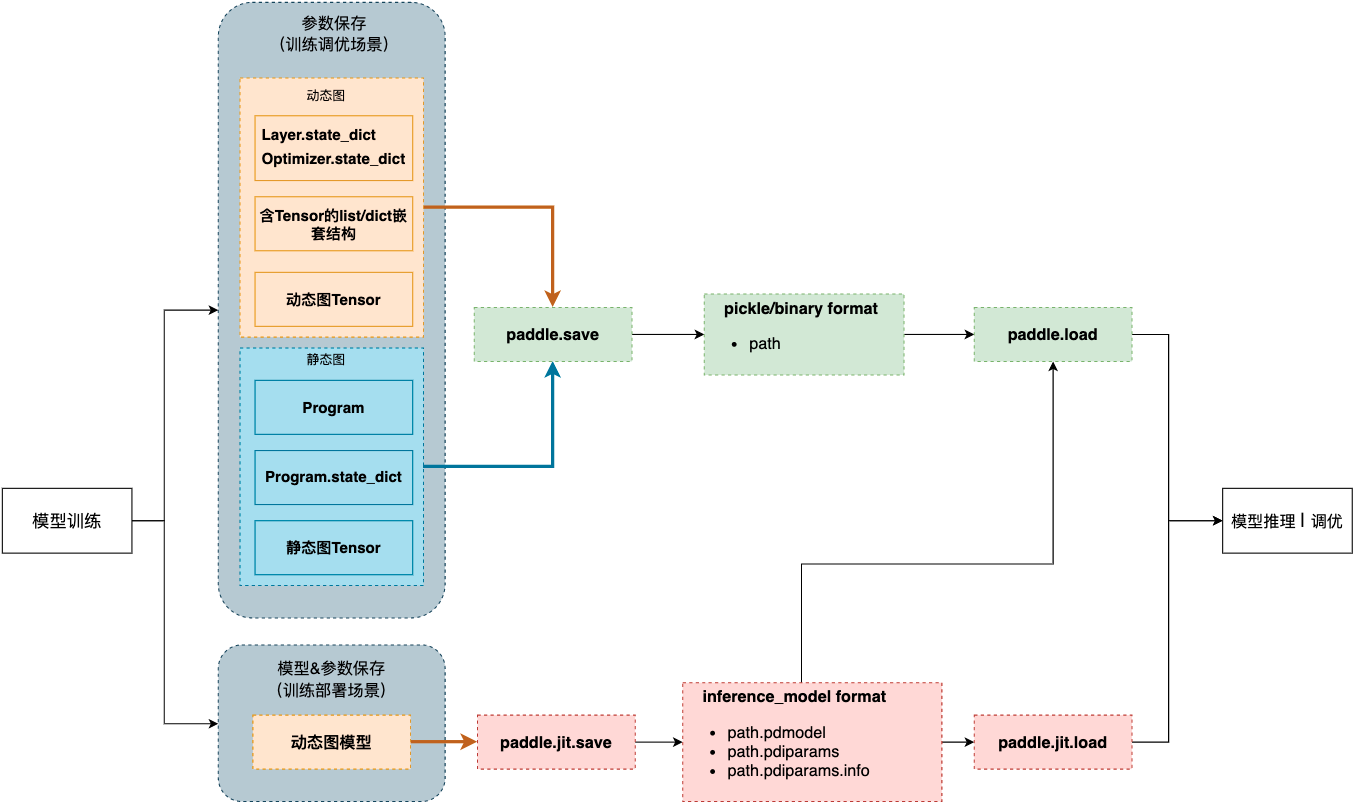
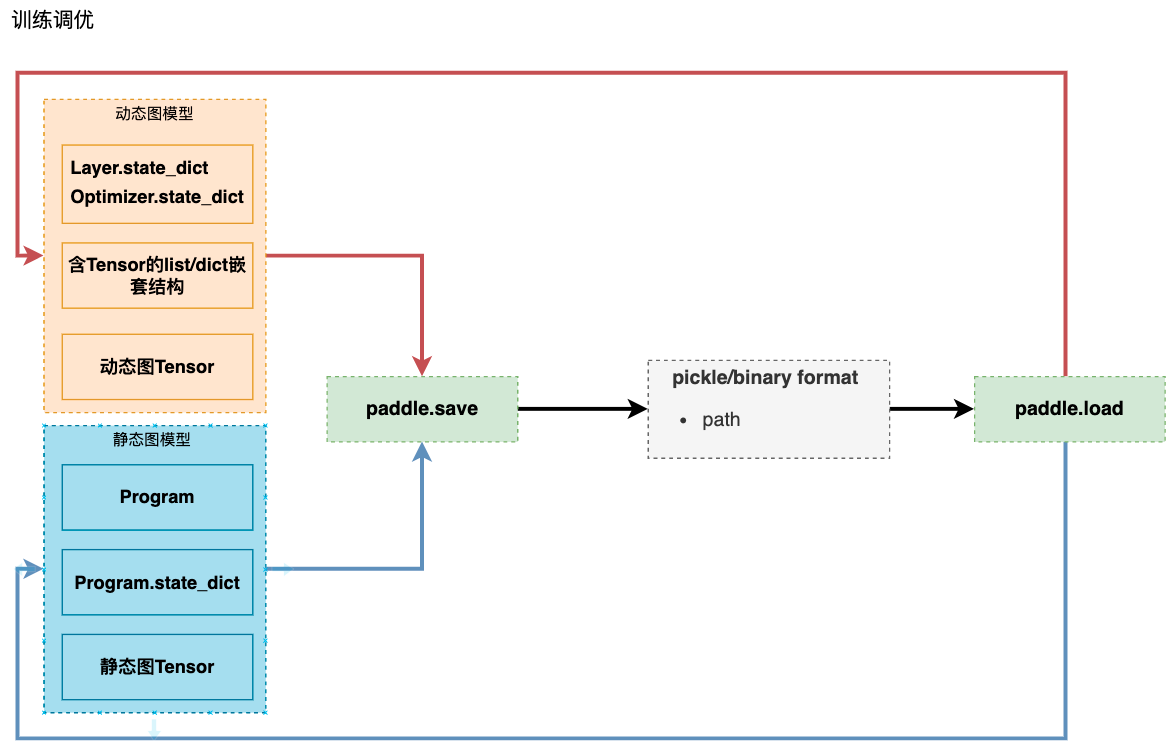
polish doc

diff --git a/docs/guides/02_paddle2.0_develop/08_model_save_load_cn.rst b/docs/guides/02_paddle2.0_develop/08_model_save_load_cn.rst
@@ -10,7 +10,8 @@
 1.1 基础API保存载入体系
 --------------------
 
-飞桨框架2.1模型与参数的保存与载入相关接口包括：
+飞桨框架2.1对模型与参数的保存与载入相关接口进行了梳理：对于训练调优场景，我们推荐使用paddle.save/load保存和载入模型；对于推理部署场景，我们推荐使用paddle.jit.save/load（动态图）和paddle.static.save/load_inference_model（静态图）保存载入模型。
+更飞桨保存与载入相关接口包括：
 
 
 :ref:`paddle.save <cn_api_paddle_framework_io_save>`
@@ -21,20 +22,15 @@
 
 :ref:`paddle.jit.load <cn_api_paddle_jit_save>`
 
+:ref:`paddle.static.save_inference_model <cn_api_static_save_inference_model>`
+
+:ref:`paddle.static.load_inference_model <cn_api_fluid_io_load_inference_model>`
+
 
 各接口关系如下图所示：
 
 .. image:: images/paddle_save_load_2.1.png
-
-
-
-飞桨框架2.1对模型与参数的保存与载入相关接口进行了梳理：对于训练调优场景，我们推荐使用paddle.save/load保存和载入模型；对于推理部署（动态图转化为静态图）场景，我们推荐使用jit.save/load保存载入模型。
-
-paddle.save/load支持动态图相关对象（state_dict、Tensor、包含Tensor的tuple/dict嵌套结构）和静态图相关对象（Program、state_dict、Tensor）的保存和载入；paddle.jit.save/load支持Layer和无参函数的保存和加载。更多介绍请参考相应API文档。
-
-.. note::
-    不推荐使用paddle.save保存Layer对象，原因如下：1. 加载Layer对象无法脱离模型代码。 2. Layer对象相交于state_dict包含大量冗余信息。
-
+.. image:: images/paddle_jit_save_load_2.1.png
 
 1.2 高阶API保存载入体系
 --------------------
@@ -57,8 +53,8 @@ paddle.save/load支持动态图相关对象（state_dict、Tensor、包含Tensor
         ../../faq/save_cn.md
     
 
-二、参数保存载入（训练调优）
-#######################
+二、训练调优场景的模型&参数保存载入
+##############################
 
 2.1 动态图参数保存载入
 -------------------
@@ -157,8 +153,8 @@ paddle.save/load支持动态图相关对象（state_dict、Tensor、包含Tensor
     adam.set_state_dict(opt_state_dict)
 
 
-2.2 静态图模型保存载入
--------------------
+2.2 静态图模型&参数保存载入
+-----------------------
 若仅需要保存/载入模型的参数，可以使用 ``paddle.save/load`` 结合Program的state_dict达成目的，此处state_dict与动态图state_dict概念类似，dict的key为参数名，value为参数真实的值。若想保存整个模型，需要使用``paddle.save``将Program和state_dict都保存下来。
 
 结合以下简单示例，介绍参数保存和载入的方法：
@@ -180,7 +176,7 @@ paddle.save/load支持动态图相关对象（state_dict、Tensor、包含Tensor
     prog = paddle.static.default_main_program()
 
 
-2.2.1 静态图模型参数保存
+2.2.1 静态图模型&参数保存
 ---------------------
 
 参数保存时，先获取Program的state_dict，然后将state_dict保存至磁盘，示例如下（接前述示例）:
@@ -196,7 +192,7 @@ paddle.save/load支持动态图相关对象（state_dict、Tensor、包含Tensor
     paddle.save(prog, "temp/model.pdmodel")
 
 
-2.2.2 静态图模型参数载入
+2.2.2 静态图模型&参数载入
 ---------------------
 
 如果只保存了state_dict，可以跳过此段代码，直接载入state_dict。如果模型文件中包含Program和state_dict，请先载入Program，示例如下（接前述示例）:
@@ -215,20 +211,22 @@ paddle.save/load支持动态图相关对象（state_dict、Tensor、包含Tensor
 
 
 
-三、模型&参数保存载入（训练部署）
-############################
+三、训练部署场景的模型&参数保存载入
+##################################
 
-若要同时保存/载入模型结构和参数，可以使用 ``paddle.jit.save/load`` 实现。
+3.1 动态图模型&参数保存载入（训练推理）
+---------------------------
+若要同时保存/载入动态图模型结构和参数，可以使用 ``paddle.jit.save/load`` 实现。
 
-3.1 模型&参数保存
-----------------
+3.1.1 动态图模型&参数保存
+----------------------
 
 模型&参数存储根据训练模式不同，有两种使用情况：
 
 (1) 动转静训练 + 模型&参数保存
 (2) 动态图训练 + 模型&参数保存
 
-3.1.1 动转静训练 + 模型&参数保存
+3.1.1.1 动转静训练 + 模型&参数保存
 ``````````````````````````````
 
 动转静训练相比直接使用动态图训练具有更好的执行性能，训练完成后，直接将目标Layer传入 ``paddle.jit.save`` 保存即可。：
@@ -467,7 +465,7 @@ Layer更准确的语义是描述一个具有预测功能的模型对象，接收
     load_result = load_func(inps)
 
 
-3.1.2 动态图训练 + 模型&参数保存
+3.1.1.2 动态图训练 + 模型&参数保存
 ``````````````````````````````
 
 动态图模式相比动转静模式更加便于调试，如果你仍需要使用动态图直接训练，也可以在动态图训练完成后调用 ``paddle.jit.save`` 直接保存模型和参数。
@@ -579,8 +577,8 @@ Layer更准确的语义是描述一个具有预测功能的模型对象，接收
         path=path,
         input_spec=[image])
 
-3.2 模型&参数载入
-----------------
+3.1.2 动态图模型&参数载入
+----------------------
 
 载入模型参数，使用 ``paddle.jit.load`` 载入即可，载入后得到的是一个Layer的派生类对象 ``TranslatedLayer`` ， ``TranslatedLayer`` 具有Layer具有的通用特征，支持切换 ``train`` 或者 ``eval`` 模式，可以进行模型调优或者预测。
 
@@ -690,6 +688,55 @@ Layer更准确的语义是描述一个具有预测功能的模型对象，接收
     layer.eval()
     x = paddle.randn([1, IMAGE_SIZE], 'float32')
     pred = layer(x)
+
+
+3.2 静态图模型&参数保存载入（推理部署）
+--------------------------------
+保存/载入静态图推理模型，可以通过 ``paddle.static.save/load_inference_model`` 实现。示例如下:
+
+.. code-block:: python
+
+    import paddle
+    import numpy as np
+
+    paddle.enable_static()
+
+    # Build the model
+    startup_prog = paddle.static.default_startup_program()
+    main_prog = paddle.static.default_main_program()
+    with paddle.static.program_guard(main_prog, startup_prog):
+        image = paddle.static.data(name="img", shape=[64, 784])
+        w = paddle.create_parameter(shape=[784, 200], dtype='float32')
+        b = paddle.create_parameter(shape=[200], dtype='float32')
+        hidden_w = paddle.matmul(x=image, y=w)
+        hidden_b = paddle.add(hidden_w, b)
+    exe = paddle.static.Executor(paddle.CPUPlace())
+    exe.run(startup_prog)
+
+
+3.2.1 静态图推理模型&参数保存
+-------------------------
+静态图导出推理模型需要指定导出路径、输入、输出变量以及执行器。 ``save_inference_model`` 会裁剪Program的冗余部分，并导出两个文件： ``path_prefix.pdmodel`` 、 ``path_prefix.pdiparams`` 。示例如下（接前述示例）：
+
+.. code-block:: python
+
+    # Save the inference model
+    path_prefix = "./infer_model"
+    paddle.static.save_inference_model(path_prefix, [image], [hidden_b], exe)
+
+
+3.2.1 静态图推理模型&参数载入
+-------------------------
+载入静态图推理模型时，输入给 ``load_inference_model`` 的路径必须与 ``save_inference_model`` 的一致。示例如下（接前述示例）：
+
+.. code-block:: python
+
+    [inference_program, feed_target_names, fetch_targets] = (
+        paddle.static.load_inference_model(path_prefix, exe))
+    tensor_img = np.array(np.random.random((64, 784)), dtype=np.float32)
+    results = exe.run(inference_program,
+                    feed={feed_target_names[0]: tensor_img},
+                    fetch_list=fetch_targets)
 
 
 四、旧保存格式兼容载入
